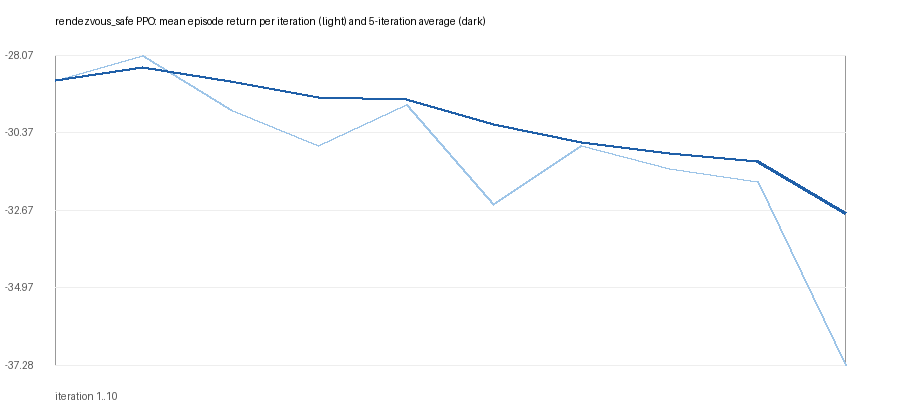
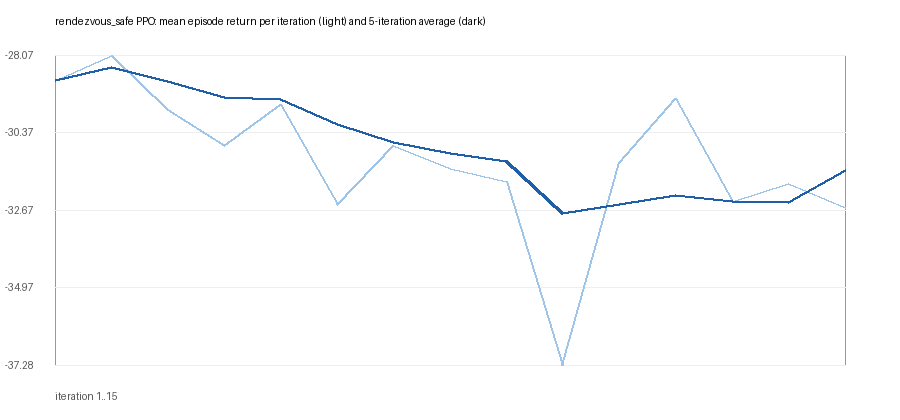
Mechanics catalogue from pzwiki.net with staleness table and environment realism roadmap

diff --git a/docs/pz-mechanics.md b/docs/pz-mechanics.md
@@ -1,0 +1,95 @@
+# Project Zomboid mechanics catalogue for the simulation
+
+Purpose: what the real game does (stats, injuries, combat, zombies, settings), what our training environment does today, and what to add over time so agents learn skills that survive the move to a real client. Written 2026-10-26 from pzwiki.net (read through the built-in browser; plain fetching is blocked with HTTP 403), summarised in our own words. The wiki is edited by players and often lags the game: every article carries a banner saying which build it was last updated for, so use the staleness table to decide how far to trust a number, and verify anything we encode against the game files (`media/scripts/generated/items/*.txt`, `media/lua/shared/Sandbox/*.lua`, javap on the jar).
+
+The installed game is Build 42.21.0 (the wiki calls it "current stable").
+
+## How fresh is each article (banner read on 2026-10-26)
+
+| Article | Last updated for | Trust |
+|---|---|---|
+| Zombie | 42.21.0 (current) | high |
+| Custom Sandbox | 42.20.4 | high for option names, check defaults |
+| Strength | 42.18.0, but its numeric table is from 41.78.16 | medium: verify the multipliers |
+| Long Blunt | 42.18.0 | medium |
+| Weapon | 42.20.4 | high for stats (bat weight 2.0 confirmed in the game's own item script) |
+| Health | 42.15.3 | medium |
+| Moodles | 42.13.2 | medium; several moodles are "Build 42, currently unavailable" |
+| Knox Infection | 42.13.1 | medium: matches the Zombie article's chances |
+| Panic, Endurance, Heavy load | 42.12.3 | low to medium: numbers may have moved in the 9 builds since |
+
+Not yet read (see the end): Fitness, Tired/Sleep, Nutrition, Stressed, Pain, Noise, AI, Weather, First Aid, Skills overview, Traits and Occupations pages, vehicles, farming, crafting, animals.
+
+## 1. Infection and wounds (what "damage" really means)
+
+- Only zombie attacks infect (the Knox Infection). Chances at default settings: bite 100%, laceration 25%, scratch 7%. (The user remembers scratches as about 33%: the wiki says 7% since Build 41; check the game's code before encoding either.) Non-zombie injuries never infect with Knox.
+- Timeline after infection: stress and a temperature rise within hours, nausea stages over the first two days, fever, death at about 72 hours (default Infection Mortality "2-3 days"), reanimation within a minute. No cure. A character with the Resilient trait gets 25% slower progression, Prone to Illness 25% faster.
+- Sandbox: Transmission (Blood+Saliva default / Saliva only = only bites / Everyone's infected / None), Infection Mortality (instant ... 2-3 days default ... 1-2 weeks, never), Reanimate Time. Our server uses Transmission 1 (Blood+Saliva), Mortality 5 (2-3 days).
+- Wound infection (bacterial) is a different, minor thing: dirty bandage or untreated open wound, treatable with disinfectant, clean bandages, antibiotics; never fatal by itself.
+- 17 body parts, each with injuries: scratch, laceration, bite, deep wound, burn, fracture, lodged bullet/glass. Each injury has a healing time in hours (scratch 7-15, laceration 10-20, bite 50-80, deep wound 15-20, fracture up to 60 days; Fast/Slow Healer traits shift these). Injuries "cap" the maximum health until they heal. Neck wounds ignore the cap and can kill within minutes if not bandaged. Bleeding wounds need bandages (First Aid skill speeds things and improves outcomes).
+- Reaching zero health is permanent death.
+
+What we do today: the bridge reads one number (`getBodyDamage():getHealth()`) and the fake backend's "bite" is plain hit-point loss. The reward cannot tell a bite (a death sentence) from a bruise (recoverable). Design decision recorded in the journal.
+
+To add: publish bitten/scratched/lacerated/infected flags per player and model bite and scratch events for fake clients with the real chances (configurable); an infected agent counts as dead for training; recoverable injuries (strain, bruises, falls) get small penalties; bandaging as an action and bleeding as an observation; healing time and the health cap if we want long-lived agents.
+
+## 2. Combat: what changes the damage of a swing
+
+All of these are things the fake client does not model, and together they probably explain why real swings averaged only about 0.19 of a zombie's health in our tests.
+
+- **Weapon**: Baseball bat: weight 2.0, damage 0.8-1.1, two-handed (usable one-handed at 50% damage and a large endurance cost; our bot equips it in both hands). Heavier weapons cost more endurance per swing (modifier up to 3x for mauls, 1.3x for a frying pan).
+- **Strength skill** (starts at level 5, no XP boost): melee damage multiplier 75% at level 0, +5% per level, 125% at 10; also push knockdown, carry capacity (6 at level 0 up to 20 at 10), muscle strain. Gains XP from exercise, carrying more than half the capacity, running, and melee hits. Values in the table came from build 41.78.16.
+- **Weapon skill** (Long Blunt for the bat): damage +10% at level 3, +20% at level 7; range +20% at 7; endurance cost -10% at 8+. Gains XP from hits. Starts at 0 for most characters (Baseball Player and Brawler traits +1).
+- **Endurance** (exertion from running, swinging, carrying): out of breath (25% used) cuts melee damage by 50% and attack speed by 7% and walking speed by 19%; high exertion (50%) -80% damage and sprinting off; excessive (75%) -90%, running off; exhausted (90%) -95% damage and -28% attack speed. Recovers slowly when idle (faster sitting or with high Fitness); tiredness slows recovery. A bot that runs to a zombie and then swings repeatedly is in the 50-90% damage-loss band quickly. **This is the first thing to check for the real-client combat gap**: read `CharacterStat.ENDURANCE` during a fight.
+- **Panic**: grows when zombies are seen (about 3% per zombie, more from behind), recovers faster the longer the character has survived (up to 150 days), is reduced by Brave/Desensitized, doubled by Cowardly. Melee damage -0.2 / -0.3 / -0.4 at alarmed / frightened / terrified (an absolute subtraction, big against a bat's 0.8-1.1), critical chance down, vision narrowed; firearm accuracy drops sharply with distance.
+- **Stress, tiredness, pain**: also lower combat ability; pain from injuries and "exercise fatigue", arm injuries and fractures cut damage severely.
+- **Muscle strain**: every swing adds strain to arms (scaled by weapon weight, endurance modifier, number of zombies hit, reduced by weapon skill (-7.5% per level) and Strength (-10% per level)); strained arms reduce damage and attack speed. Two-handed equip halves the strain increase.
+- **Heavy load** (weight over capacity): >100% capacity: 19% slower, 7% slower attacks; >125%: 37% slower, no sprint; >150%: 56% slower, no run, health drains to 75%; >175%: 75% slower. Our characters once carried 22 bats (weight 2.0 each).
+- Sandbox knobs that touch combat: Melee Movement Disruption (slowed while swinging, default on), Weapon Multi-Hit (off), Endurance Regeneration, Injury Severity, Rear Vulnerability, Zombie Strength and Toughness, XP Multiplier (does not apply to Strength and Fitness unless enabled).
+
+What we do today: fake client hits for a fixed lethal amount with no state; the real client has all of the above, and our bot ignores them (it keeps running and swinging).
+
+To add: read and log these stats from real clients (Endurance, Panic, Stress, Fatigue, Pain, muscle strain, Strength, Blunt, Fitness levels) and compare per-swing damage against them; then put endurance, panic and strain into the observation and make fake-backend damage depend on them, so agents learn to pace fights (retreat, rest, swap places). Leveling for long-lived agents (the accounts persist across our runs, so levels will drift).
+
+## 3. Zombies (Zombie article, current build)
+
+- Senses: sight (cone, range from the Sight setting), hearing (sounds draw them: radios, engines, gunfire, shouting, footsteps, fighting), memory (they walk to the last place a survivor was seen, then go idle). Settings: Sight, Hearing, Memory, Cognition (doors, navigation), Day/Night activity.
+- Speed (Zombie Lore Speed): sprinters / fast shamblers / shamblers / random; sprinters are the only kind faster than an unencumbered player walking away. Our server: Speed 4 (random), Strength 2 (normal), Toughness 4, Memory 2, Sight 5, Hearing 5 (look up what the codes mean before relying on them).
+- Hordes: zombies group around a leader (Rally settings); waking the leader draws the group. Population grows to a peak around day 28 (population multiplier, peak multiplier, respawn hours). Metagame events (helicopters, distant gunfire) move hordes.
+- Attacks: grab and bite (a grab holds the survivor in place), scratches and lacerations; rear attacks are more dangerous (Rear Vulnerability); several zombies attacking from different sides can drag a survivor down, which is treated as certain death (Drag Down option, on); zombies vaulting fences can lunge at a nearby survivor (Fence Lunge, on). Crawlers are slow and easy to avoid; "fake dead" zombies can get up.
+- The fake client's zombie model does very little damage to players and does not grab or drag down, so the synthetic bite rule stands in; the real client takes real zombie damage.
+
+To add: drag-down death when three or more zombies are adjacent from different directions; grab (movement held); rear attacks; zombie sight and hearing ranges and memory matching the real settings; noise from combat attracting more zombies (so fighting spots matter and squads should withdraw or pull zombies away from each other); horde leaders. Compare fake-zombie behaviour against real zombies with the same Sandbox values before tuning (the first matched tests used real zombies on the real client, fake ones on fake clients).
+
+## 4. Character stats and moodles (what a long-lived agent has to manage)
+
+Hunger, thirst, tiredness (sleep), stress, boredom, unhappiness, temperature (hot, cold, wet, windchill), sickness (cold, food poisoning), pain, bleeding, endurance, panic, heavy load, injured, restricted movement (barefoot, leg injuries, heavy clothes), drunk. Some Build 42 moodle icons exist but the effects are not active yet (concentrating, dizzy, scared, happy, ...). Sleeping greatly speeds healing and can bring nightmares (panic). Nutrition is a separate system (weight gain and loss) from the hunger moodle. Sandbox: Stats Decrease rate, Endurance Regeneration, Nutrition on or off, Starter Kit (school bag, bat, hammer, water, chips: on in our server), Free Traits, XP multiplier.
+
+What we do today: hunger, thirst and fatigue are published and nothing else; episodes are about 40 seconds, so none of this matters yet.
+
+To add (only when episodes get long enough): eat, drink, sleep and rest actions; bandage and first-aid actions on self and teammates (the user pointed out first aid as a reason to stay close); stress and panic in the observation.
+
+## 5. Skills, traits, occupations
+
+Skill groups: passive (Fitness, Strength), agility (Lightfooted, Nimble, Running, Sneaking), combat (Axe, Long Blade, Long Blunt, Maintenance, Short Blade, Short Blunt, Spear), firearm (Aiming, Reloading), crafting (about twelve), farming, survivalist (First Aid, Fishing, Foraging, Tracking, Trapping). Each has an XP rate affected by traits (Fast/Slow Learner) and the sandbox multiplier. Characters have about 40 positive and 40 negative traits plus an occupation that sets starting skill levels and traits (for example Brave, Cowardly, Desensitized, Resilient, Thick Skinned, Fit, Strong, Weak, Prone to Illness, Slow Healer, Adrenaline Junkie).
+
+What we do today: whatever the default character creation produced, identical for every agent; nothing is varied or read.
+
+To add: read each agent's traits and key skill levels into the observation or at least the logs; vary them across agents (a squad of different specialists is closer to real play); character creation currently takes defaults, so the first agents are all the same default survivor.
+
+## 6. Sandbox settings we can use to build a curriculum (and to match the real game)
+
+World settings the training server can change without code: zombie count and distribution, respawn, speed, strength, toughness, sight, hearing, memory, transmission and mortality, drag down, rear vulnerability, injury severity, bone fracture, melee disruption, weapon multi-hit, endurance regeneration, stats decrease, day length, starting time of day, darkness at night, loot rarity. A curriculum can start with weak, slow, short-sighted zombies and tighten toward the real defaults; the final evaluation should always use the settings a human game would use. Note that a world's sandbox values are stored in its save; changing the file after the world exists may not apply (check by reading the values back in game).
+
+## 7. Prioritised roadmap for the environment
+
+1. **Find out why real swings are weak** (small experiment): log endurance, panic, stress, strain and Blunt/Strength levels at each swing on the real client; correlate with damage dealt. Cost: a day of experiments, big payoff for deciding whether a combat model is needed.
+2. **Wound types in reward and observation** (bite = death sentence, scratch/laceration chances, recoverable injuries cheap). Needed before any claim about "not dying to zombies".
+3. **Zombie fidelity**: drag down, grab, rear attacks, sight/hearing/memory aligned with the real Sandbox values; noise attraction. Needed for squad tactics.
+4. **Combat state model on the fake side** (endurance, panic, strain) once step 1 shows which of them matter, plus the retreat/rest actions it makes necessary.
+5. **Per-agent variation**: traits, skills, starting kit; leveling over long runs.
+6. **Care actions**: bandage, first aid on a teammate, eat/drink/sleep for long-lived agents.
+7. **Cohesion band** reward (close but not too close) and noise-aware spacing.
+8. Out of scope for now: vehicles, farming, crafting, building, foraging, animals, electricity and water, weather beyond what changes visibility and temperature.
+
+Unknowns to settle by reading the game files rather than the wiki: whether the Build 42 melee damage formula still uses the multipliers above; the exact scratch chance (7% per the wiki versus the user's recollection of about 33%); what the numeric codes of our server's zombie settings mean; whether panic and endurance apply to the bot's swings the way the wiki says.

diff --git a/docs/journal.md b/docs/journal.md
@@ -17,6 +17,13 @@ A skill only counts as "learned" when all of these hold; otherwise spend the eff
 Known fidelity gaps (2026-10-26): combat (real swings land weakly and staggered, fake kills for free: do not train fighting on the fake backend until fixed), zombie damage (synthetic bite rule vs real), zombie aggro/behaviour not compared, only one real client fits in RAM at a time (15.8 GB): a recording with 4 real clients needs a smaller client footprint or another machine.
 
 ## Task queue (top first)
+0000. ENVIRONMENT REALISM ROADMAP (from the wiki read, user request 2026-10-26): full catalogue with article build stamps, our current state and a prioritised list in `docs/pz-mechanics.md`. Do these in this order, each as its own small experiment with the validation gates above:
+   1. Find out why real swings are weak: log ENDURANCE, PANIC, STRESS, FATIGUE, PAIN, muscle strain and the Strength/Blunt levels at every swing on the real client and correlate with damage dealt. The wiki says endurance used above 25% already cuts melee damage by 50% (80% at 50% used, 90% at 75%) and panic subtracts 0.2-0.4 damage; a bot that runs then swings repeatedly sits in that band. This probably explains the real combat gap (mean 0.19 of a zombie's health per swing).
+   2. Wound types in observation and reward (bite = death sentence; scratch 7% and laceration 25% to infect per the wiki, bite 100%, user remembers scratch near 33%: verify in game code).
+   3. Zombie fidelity: drag-down (several zombies from different sides = certain death), grab, rear attacks, sight/hearing/memory matching the real Sandbox values, noise from fighting attracts more zombies.
+   4. Combat-state model on the fake side (endurance, panic, strain) and the retreat/rest actions it creates.
+   5. Per-agent variation (traits, skills, starting kit) and leveling for long runs; 6. care actions (bandage, first aid on a teammate, eat, drink, sleep); 7. cohesion band reward.
+   Also verified from the game files: BaseballBat weight 2.0 (22 bats = 44 weight; heavy-load levels start above 100% of capacity: capacity 12 at Strength 5). Our server sandbox: ZombieLore Speed 4, Strength 2, Toughness 4, Transmission 1, Mortality 5, Memory 2, Sight 5, Hearing 5, DragDown on, FenceLunge on, RearVulnerability 3, InjurySeverity 2, StarterKit on; decode the numbers from `media/lua/shared/Sandbox/*.lua` and the sandbox UI text before using them.
 000. DESIGN NOTES (user, 2026-10-26), do something about both eventually:
    (a) LEVELING: in the real game Strength and weapon skills (Blunt for the bat) level up and the average damage per attack rises with them. Fake clients have no leveling, so a training run with long-lived agents (hours of game time, where level gains realistically happen) would miss it. TODO: model or at least log skill levels (publish `getPerkLevel` for Strength, Fitness and the weapon skill from the bridge; real clients have them already, check how fast they actually rise in our episodes), and decide whether fake-backend combat should scale damage with them. Persistent characters across runs make this matter sooner than expected (our accounts carry over).
    (b) COMBAT STATE: endurance and other stats matter. Fighting a horde the character is panicked, which lowers damage; near the end of a horde a survivor is tired and may have arm strain, which lowers damage per hit further. TODO: read panic/stress, endurance, fatigue and strain from the bridge (CharacterStat entries: ENDURANCE, PANIC, STRESS, plus muscle strain on the body parts), put them into the observation, and make the fake backend's damage depend on them, so the agents learn to pace fights (retreat and recover) as in the real game. Note the real client's damage per swing already includes this: part of why real swings did only ~0.19 of a zombie's health on average may be endurance (we saw `endurance=1` in the diag log) and panic; check before concluding anything about the combat gap.
@@ -33,6 +40,7 @@ Known fidelity gaps (2026-10-26): combat (real swings land weakly and staggered,
 Screenshots and clips for the user go in `docs/media/` (commit them) with a one-line caption in the log below.
 
 ## Log (newest first)
+- 2026-10-26 12:00: read pzwiki.net (built-in browser; WebFetch gets 403) and wrote docs/pz-mechanics.md (catalogue, staleness table, roadmap). Key finding: Endurance and Panic cut melee damage heavily and are not modelled on the fake side or controlled by our bot; heavy-load levels explain part of the earlier slow real runner.
 - 2026-10-26 08:20: USER NOTE: the characters had 19 baseball bats (env gave a new bat every reset), which is heavily encumbering; in the real game the bat starts in the backpack and the player equips it from there. Fixed: bridge command `ensure|user|Base.Item` keeps one item of that type (the starter-kit one), removes extras and equips it; `inv|user` reports items, weight and bats. EVERY result with a real client so far was measured with an overloaded character (speed 13-17 tiles per 100 ticks, transfer numbers), so the speed calibration and the transfer tests must be redone. Standing rule: do not add inventory items on every reset.
 - 2026-10-26 08:00: fake walking speed calibrated to the real runner (16 tiles per 100 ticks) via target distance per step in env._move_len; verified at 4x. NEXT: retrain rendezvous_safe with the calibrated mover (old checkpoints were trained too fast), retest with a real client, then try charged swings for real fighting. Only ever run ONE experiment script at a time (AlreadyConnected failures otherwise); scripts/pz_ctl.py list/stop-clients/stop-runs shows and stops processes safely.
 - 2026-10-26 11:30: transfer with zombies: policy trained on fakes works with a real client (it ends 14 tiles from its mate on average vs 2.5 all-fake, never took damage). BIGGEST GAP: the fake mover walks ~3 tiles/s, the real runner ~1.4 tiles/s. TODO next: calibrate both speeds in a straight line, set the fake client's speed to the real one, retrain rendezvous_safe, retest. Also still open: the first teleport right after a rendered client enters the world leaves it unable to walk (a 20 s settle was added in env.py, unverified).

diff --git a/CLAUDE.md b/CLAUDE.md
@@ -2,7 +2,7 @@
 
 Context for Claude Code sessions working in this repo on Joshua's Windows PC.
 
-**After a crash or session reset, read `docs/journal.md` first (task queue, how to resume, running log).**
+**After a crash or session reset, read `docs/journal.md` first (task queue, how to resume, running log). Game mechanics, how they differ from our simulation and what to add: `docs/pz-mechanics.md`.**
 
 ## Goal
 
